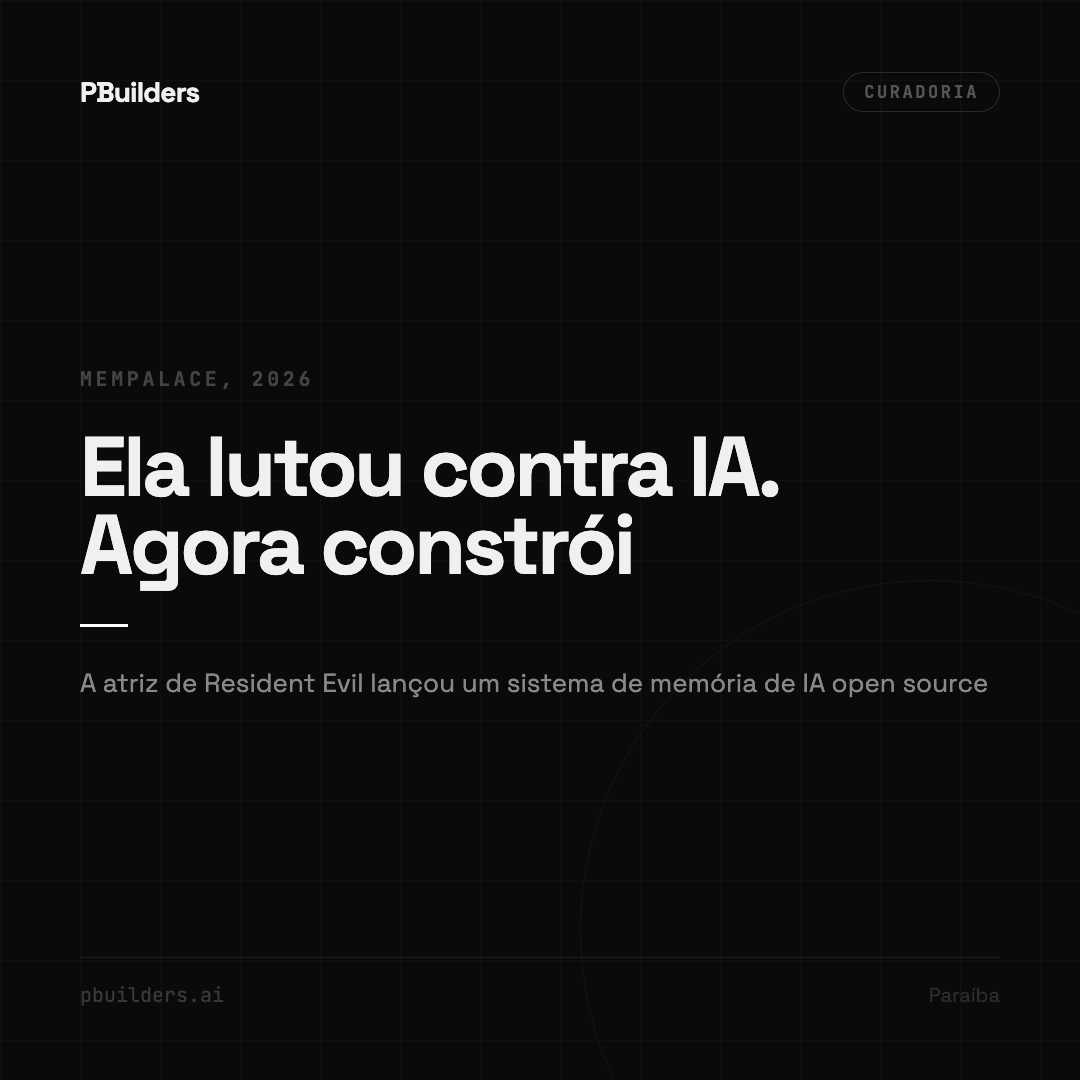
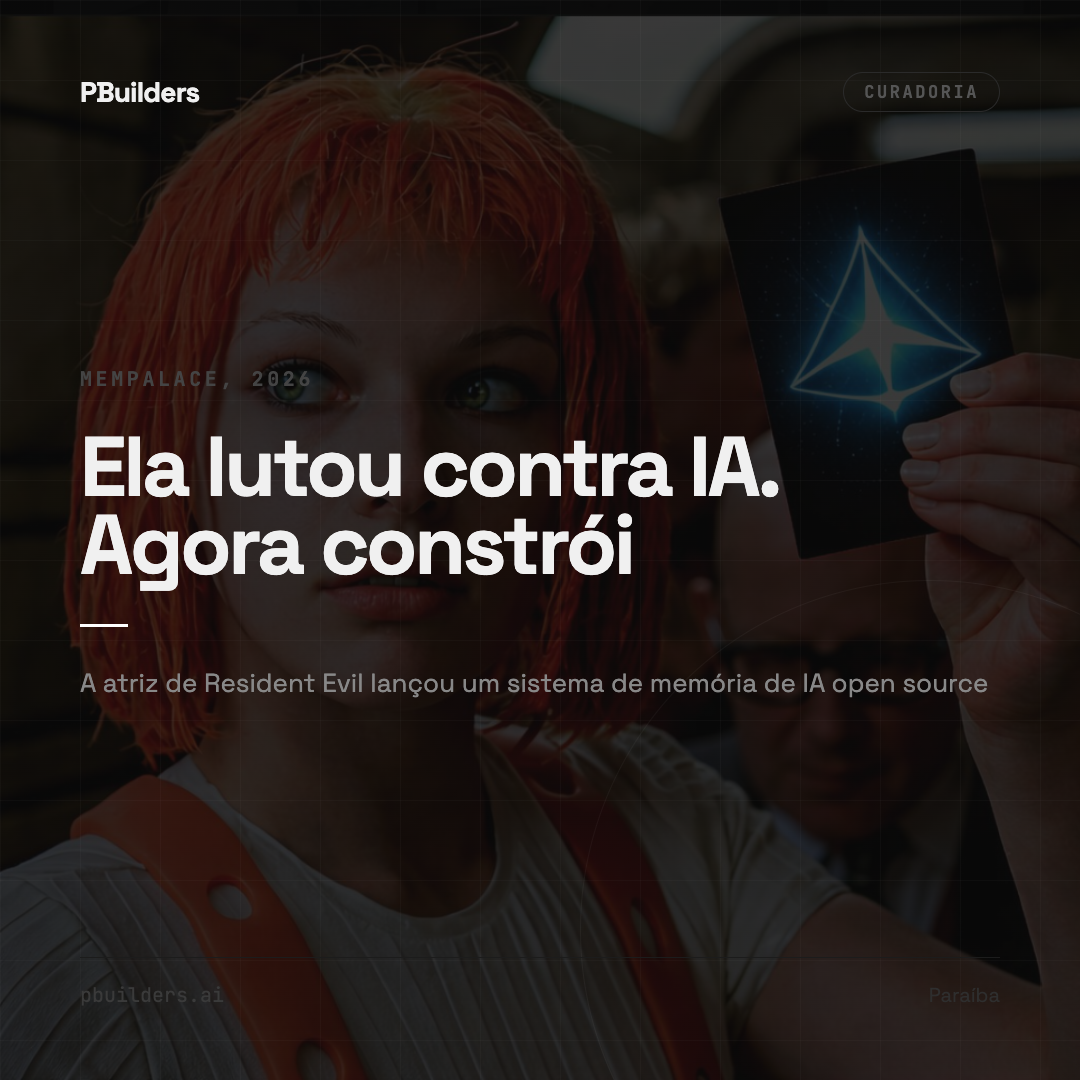
MemPalace: adicionar foto da Milla como background do slide 1 e WhatsApp cover

diff --git a/content/2026-04-08-mempalace/instagram-carousel.html b/content/2026-04-08-mempalace/instagram-carousel.html
@@ -126,7 +126,13 @@
       justify-content: center;
     }
 
-    /* ── SLIDE 1 — HOOK ── */
+    /* ── SLIDE 1 — HOOK (foto background) ── */
+    #s1 {
+      background:
+        linear-gradient(rgba(10,10,10,0.82), rgba(10,10,10,0.82)),
+        url('milla.png') center/cover no-repeat;
+    }
+
     #s1 .eyebrow {
       font-family: 'JetBrains Mono', monospace;
       font-size: 20px;

diff --git a/content/2026-04-08-mempalace/whatsapp-cover.html b/content/2026-04-08-mempalace/whatsapp-cover.html
@@ -21,7 +21,9 @@
     .slide {
       width: 1080px;
       height: 1080px;
-      background: #0A0A0A;
+      background:
+        linear-gradient(rgba(10,10,10,0.80), rgba(10,10,10,0.80)),
+        url('milla.png') center/cover no-repeat;
       position: relative;
       overflow: hidden;
       display: flex;
